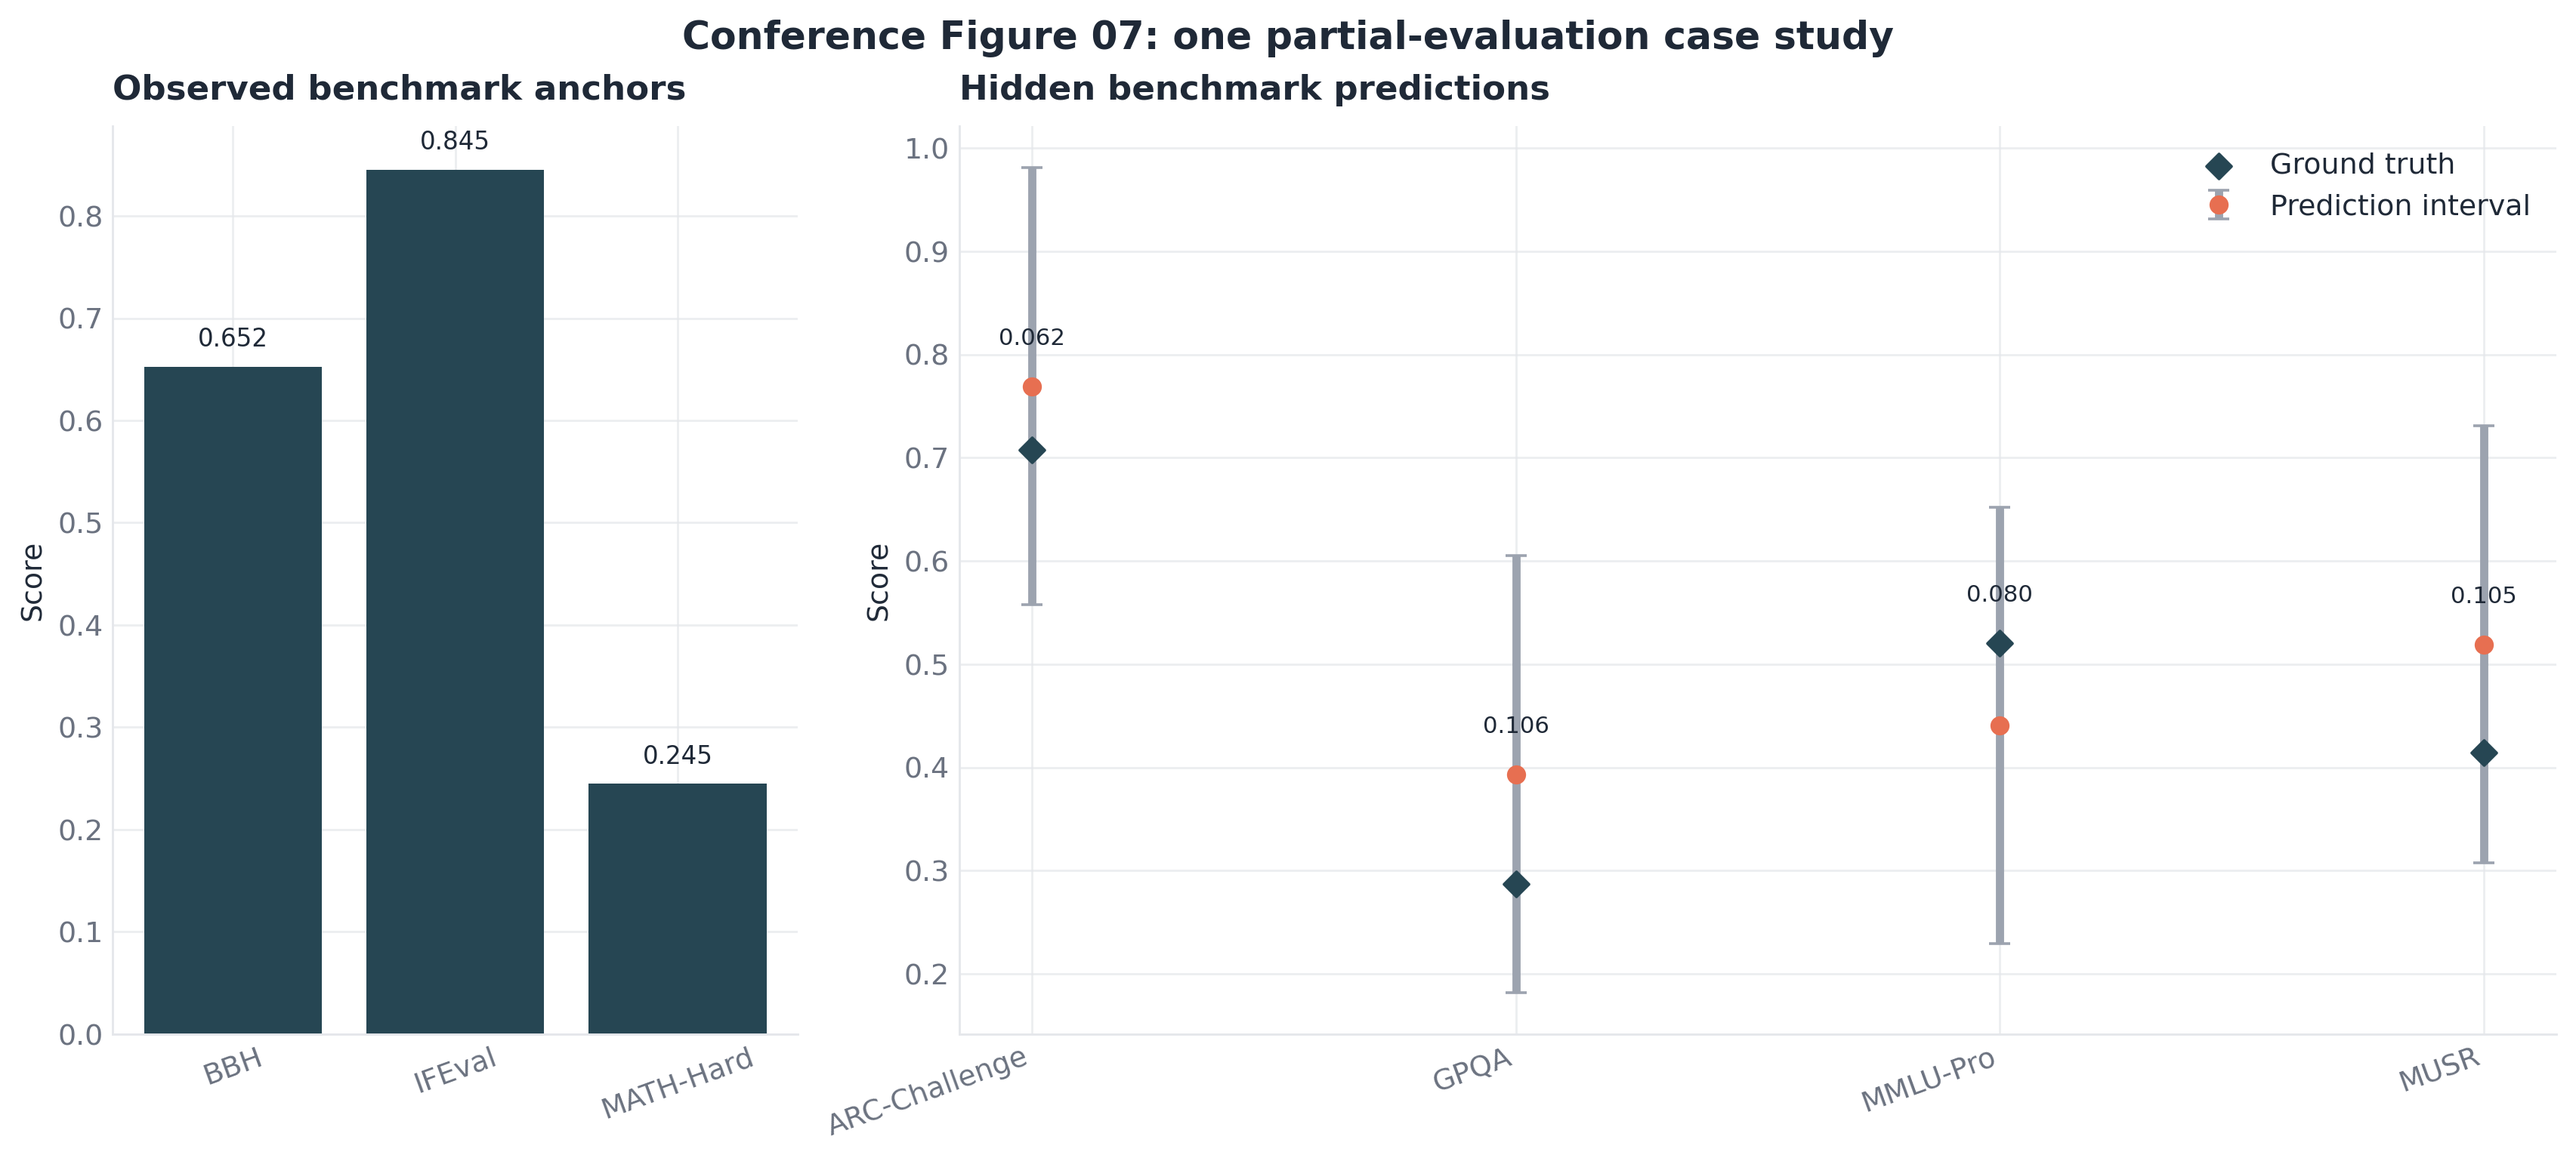
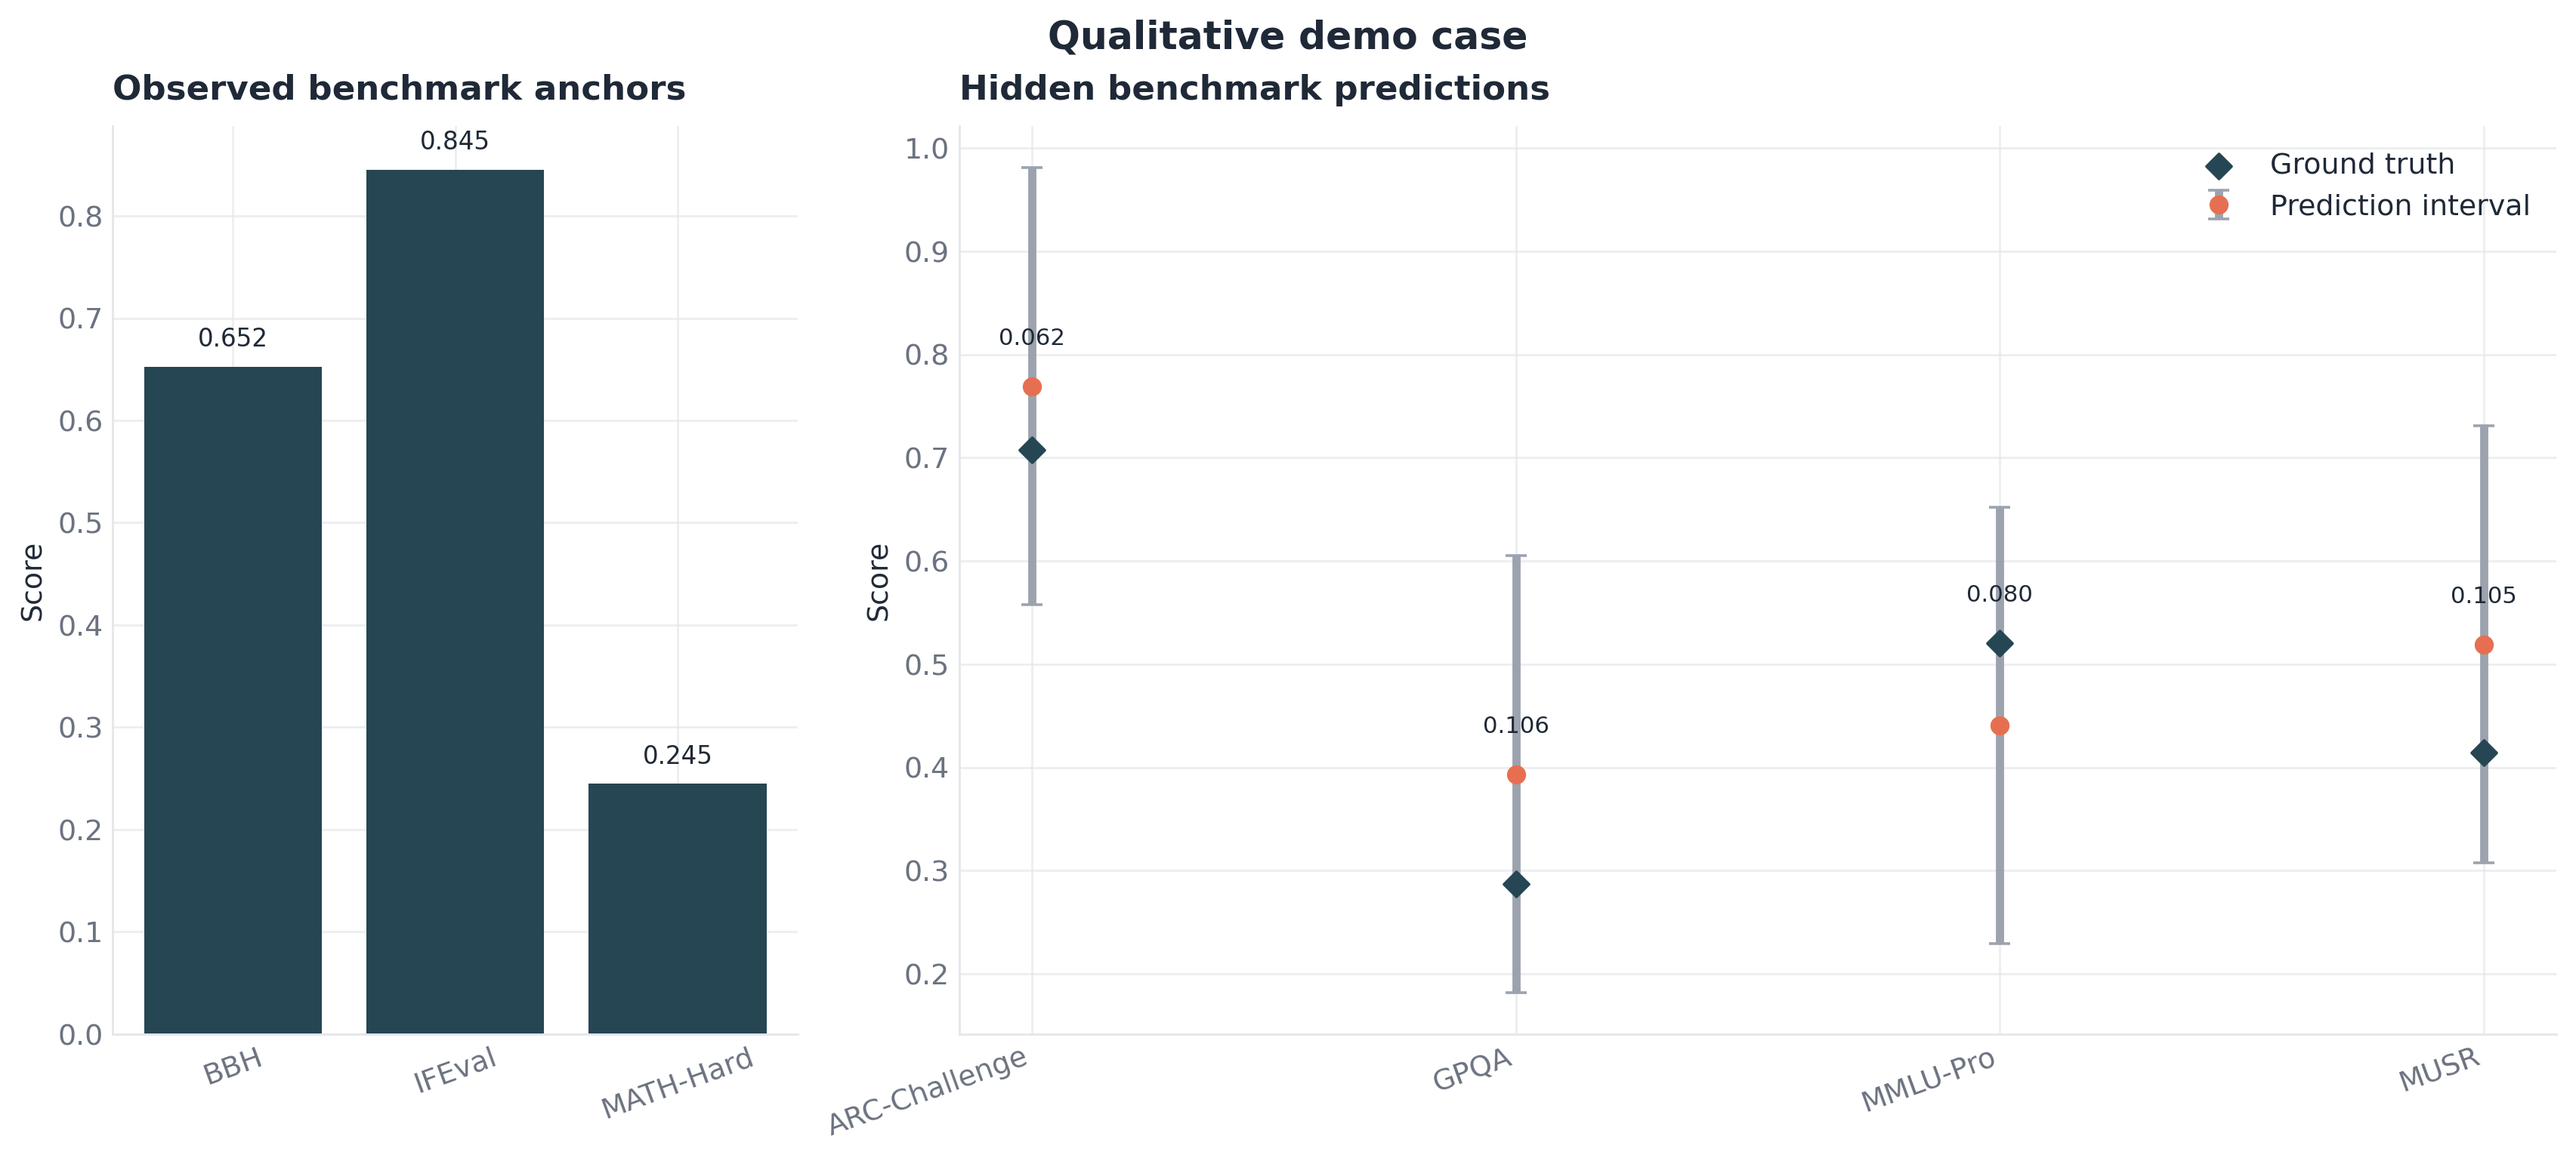
Add novelty-focused conference figures

Changed region(s): [[0.2798, 0.0, 0.746, 0.0624]]

diff --git a/scripts/generate_conference_figures.py b/scripts/generate_conference_figures.py
@@ -42,6 +42,7 @@ COST_SUMMARY = REPO_ROOT / "results" / "cost_savings" / "summary_table.csv"
 DEMO_REPORT = REPO_ROOT / "results" / "demo" / "demo_report.json"
 SCORE_CSV = REPO_ROOT / "datasets" / "lm_eval_real" / "scores.csv"
 DEFAULT_OUT_DIR = REPO_ROOT / "results" / "conference_figures"
+MANIFOLD_PROJECTION = REPO_ROOT / "results" / "manifold_visualization" / "projection.csv"
 
 RISK_SEEDS = [0, 1, 2, 3, 4]
 
@@ -146,6 +147,10 @@ def load_baseline_rows() -> list[dict[str, float | str]]:
     return rows
 
 
+def load_ablation_rows() -> list[dict[str, str]]:
+    return read_csv_rows(ABLATION_TABLE)
+
+
 def load_observed_fraction_rows() -> list[dict[str, float]]:
     rows = []
     for row in read_csv_rows(ABLATION_TABLE):
@@ -206,6 +211,26 @@ def load_cost_rows() -> list[dict[str, float]]:
 
 def load_demo_report() -> dict[str, object]:
     return json.loads(DEMO_REPORT.read_text(encoding="utf-8"))
+
+
+def load_manifold_projection() -> list[dict[str, str | float]]:
+    if not MANIFOLD_PROJECTION.exists():
+        raise SystemExit(
+            f"Missing {MANIFOLD_PROJECTION}. Run `python scripts/run_manifold_visualization.py` first."
+        )
+
+    rows: list[dict[str, str | float]] = []
+    for row in read_csv_rows(MANIFOLD_PROJECTION):
+        rows.append(
+            {
+                "model_name": row["model_name"],
+                "family": row["family"],
+                "point_type": row["point_type"],
+                "pc1": as_float(row["pc1"]),
+                "pc2": as_float(row["pc2"]),
+            }
+        )
+    return rows
 
 
 def load_benchmark_coverage() -> list[tuple[str, int]]:
@@ -382,7 +407,7 @@ def generate_overview_figure(
     for y, count in enumerate(family_sizes):
         ax.text(count + 0.15, y, str(count), va="center", fontsize=9)
 
-    fig.suptitle("Conference Figure 01: why the real-data story is credible", fontsize=14, fontweight="bold")
+    fig.suptitle("Real-data benchmark overview", fontsize=14, fontweight="bold")
     save_figure(fig, path, dpi)
 
 
@@ -416,7 +441,7 @@ def generate_baseline_comparison(path: Path, dpi: int, baseline_rows: list[dict[
             ax.text(value, yy, f" {value:.3f}" if not invert else f"{value:.3f} ", va="center", ha="left" if not invert else "right", fontsize=9)
         ax.set_ylim(-0.6, len(names) - 0.4)
 
-    fig.suptitle("Conference Figure 02: the full method earns its extra machinery", fontsize=14, fontweight="bold")
+    fig.suptitle("Baseline comparison", fontsize=14, fontweight="bold")
     save_figure(fig, path, dpi)
 
 
@@ -440,7 +465,7 @@ def generate_observed_fraction_curve(path: Path, dpi: int, observed_rows: list[d
     axes[-1].set_xlabel("Observed benchmark fraction")
     axes[-1].set_xticks(fractions)
     axes[-1].set_xticklabels([f"{int(value * 100)}%" for value in fractions])
-    fig.suptitle("Conference Figure 03: predictions become useful after surprisingly few anchors", fontsize=14, fontweight="bold")
+    fig.suptitle("Performance versus observed fraction", fontsize=14, fontweight="bold")
     save_figure(fig, path, dpi)
 
 
@@ -488,7 +513,7 @@ def generate_family_split_figure(
     for y, count in enumerate(counts):
         ax.text(count + 0.15, y, str(count), va="center", fontsize=9)
 
-    fig.suptitle("Conference Figure 04: OOD-by-family is harder, but the uncertainty layer still behaves", fontsize=14, fontweight="bold")
+    fig.suptitle("Family-holdout evaluation", fontsize=14, fontweight="bold")
     save_figure(fig, path, dpi)
 
 
@@ -516,7 +541,7 @@ def generate_cost_frontier(path: Path, dpi: int, cost_rows: list[dict[str, float
     ax.set_xticks(thresholds)
     ax.legend(frameon=False)
 
-    fig.suptitle("Conference Figure 05: risk gating buys real benchmark savings", fontsize=14, fontweight="bold")
+    fig.suptitle("Risk-threshold savings frontier", fontsize=14, fontweight="bold")
     save_figure(fig, path, dpi)
 
 
@@ -573,7 +598,7 @@ def generate_risk_stratification(
     for bar, count in zip(bars, counts):
         ax.text(bar.get_x() + bar.get_width() / 2, bar.get_height() + 0.015, f"n={int(count)}", ha="center", fontsize=9)
 
-    fig.suptitle("Conference Figure 06: the risk score actually sorts the hard cases", fontsize=14, fontweight="bold")
+    fig.suptitle("Risk stratification", fontsize=14, fontweight="bold")
     save_figure(fig, path, dpi)
 
 
@@ -611,7 +636,7 @@ def generate_demo_case_study(path: Path, dpi: int, demo_report: dict[str, object
     for xpos, pred, truth in zip(x, preds, truths):
         ax.text(xpos, max(pred, truth) + 0.04, f"{abs(pred - truth):.3f}", ha="center", fontsize=8.5)
 
-    fig.suptitle("Conference Figure 07: one partial-evaluation case study", fontsize=14, fontweight="bold")
+    fig.suptitle("Qualitative demo case", fontsize=14, fontweight="bold")
     save_figure(fig, path, dpi)
 
 
@@ -630,7 +655,189 @@ def generate_alpha_validation(path: Path, dpi: int, alpha_rows: list[dict[str, f
     for x, y, alpha in zip(targets, empirical, alphas):
         ax.text(x + 0.005, y + 0.004, f"a={alpha:.2f}", fontsize=9)
 
-    fig.suptitle("Conference Figure 08: conformal coverage across multiple alpha values", fontsize=14, fontweight="bold")
+    fig.suptitle("Conformal alpha validation", fontsize=14, fontweight="bold")
+    save_figure(fig, path, dpi)
+
+
+def generate_component_ablation(path: Path, dpi: int, ablation_rows: list[dict[str, str]]) -> None:
+    fig, axes = plt.subplots(1, 2, figsize=(13.5, 5.8), constrained_layout=True)
+
+    rank_rows = [
+        {
+            "rank": int(as_float(row["setting"])),
+            "completion_mae": as_float(row["completion_mae"]),
+            "failure_auc": as_float(row["failure_auc"]),
+        }
+        for row in ablation_rows
+        if row["ablation"] == "rank"
+    ]
+    rank_rows.sort(key=lambda row: row["rank"])
+
+    ax = axes[0]
+    ranks = np.asarray([row["rank"] for row in rank_rows], dtype=int)
+    maes = np.asarray([row["completion_mae"] for row in rank_rows], dtype=float)
+    aucs = np.asarray([row["failure_auc"] for row in rank_rows], dtype=float)
+    ax.plot(ranks, maes, color=COLORS["mae"], marker="o", linewidth=2.2, label="Completion MAE")
+    ax.set_xlabel("Latent rank")
+    ax.set_ylabel("Completion MAE", color=COLORS["mae"])
+    ax.tick_params(axis="y", colors=COLORS["mae"], length=0)
+    ax.set_xticks(ranks)
+    style_axis(ax, "Rank sweep")
+
+    ax2 = ax.twinx()
+    ax2.plot(ranks, aucs, color=COLORS["auc"], marker="s", linewidth=2.2, label="Failure AUC")
+    ax2.set_ylabel("Failure AUC", color=COLORS["auc"])
+    ax2.tick_params(axis="y", colors=COLORS["auc"], length=0)
+    ax2.spines["top"].set_visible(False)
+    ax2.grid(False)
+    if len(ranks) > 0:
+        best_rank = ranks[int(np.argmax(aucs))]
+        ax.axvline(best_rank, color=COLORS["gray"], linestyle="--", linewidth=1.1)
+        ax.text(best_rank + 0.05, np.max(maes), f"best AUC at rank {best_rank}", fontsize=9, color=COLORS["muted"])
+
+    feature_rows = [
+        {
+            "subset": row["setting"].replace("_", " "),
+            "failure_auc": as_float(row["failure_auc"]),
+        }
+        for row in ablation_rows
+        if row["ablation"] == "feature_subset"
+    ]
+    order = ["all features", "all minus geometry", "geometry only"]
+    feature_rows.sort(key=lambda row: order.index(row["subset"]))
+
+    ax = axes[1]
+    labels = [row["subset"] for row in feature_rows]
+    values = np.asarray([row["failure_auc"] for row in feature_rows], dtype=float)
+    y = np.arange(len(labels))
+    baseline = values[1] if len(values) > 1 else np.nan
+    ax.hlines(y, baseline, values, color=COLORS["grid"], linewidth=3.0)
+    colors = [COLORS["auc"], COLORS["gold"], COLORS["mae"]]
+    ax.scatter(values, y, s=95, color=colors[: len(y)], zorder=3, edgecolors="white", linewidths=1.2)
+    ax.set_yticks(y)
+    ax.set_yticklabels(labels)
+    style_axis(ax, "Failure detector feature subsets", xlabel="Failure AUC")
+    for yy, value in zip(y, values):
+        ax.text(value + 0.008, yy, f"{value:.3f}", va="center", fontsize=9)
+    if np.isfinite(baseline):
+        ax.axvline(baseline, linestyle="--", linewidth=1.1, color=COLORS["gray"])
+        ax.text(baseline + 0.004, y[-1] + 0.4, "no-geometry reference", fontsize=9, color=COLORS["muted"])
+
+    fig.suptitle("Geometry-aware detector ablations", fontsize=14, fontweight="bold")
+    save_figure(fig, path, dpi)
+
+
+def generate_manifold_figure(
+    path: Path,
+    dpi: int,
+    projection_rows: list[dict[str, str | float]],
+) -> None:
+    fig, axes = plt.subplots(1, 2, figsize=(13.8, 6.0), constrained_layout=True)
+
+    families = sorted({str(row["family"]) for row in projection_rows if str(row["point_type"]) == "training"})
+    cmap = plt.get_cmap("tab20")
+    family_to_color = {family: cmap(idx % 20) for idx, family in enumerate(families)}
+
+    target_row = next(row for row in projection_rows if str(row["point_type"]) == "target")
+    train_rows = [row for row in projection_rows if str(row["point_type"]) == "training"]
+
+    ax = axes[0]
+    for family in families:
+        family_rows = [row for row in train_rows if str(row["family"]) == family]
+        ax.scatter(
+            [float(row["pc1"]) for row in family_rows],
+            [float(row["pc2"]) for row in family_rows],
+            s=40,
+            alpha=0.78,
+            color=family_to_color[family],
+            edgecolors="white",
+            linewidths=0.4,
+            label=family,
+        )
+    ax.scatter(
+        float(target_row["pc1"]),
+        float(target_row["pc2"]),
+        s=260,
+        marker="*",
+        color=COLORS["red"],
+        edgecolors="black",
+        linewidths=1.0,
+        zorder=10,
+        label="target",
+    )
+    style_axis(ax, "Learned model manifold", xlabel="PC1", ylabel="PC2")
+    ax.annotate(
+        str(target_row["model_name"]).split("/")[-1],
+        (float(target_row["pc1"]), float(target_row["pc2"])),
+        xytext=(9, 8),
+        textcoords="offset points",
+        fontsize=9.5,
+        color=COLORS["ink"],
+    )
+
+    nearest = sorted(
+        train_rows,
+        key=lambda row: math.dist(
+            [float(row["pc1"]), float(row["pc2"])],
+            [float(target_row["pc1"]), float(target_row["pc2"])],
+        ),
+    )[:8]
+    nearest_names = {str(row["model_name"]) for row in nearest}
+
+    ax = axes[1]
+    others = [row for row in train_rows if str(row["model_name"]) not in nearest_names]
+    ax.scatter(
+        [float(row["pc1"]) for row in others],
+        [float(row["pc2"]) for row in others],
+        s=24,
+        alpha=0.20,
+        color=COLORS["gray"],
+        edgecolors="none",
+    )
+    for row in nearest:
+        ax.scatter(
+            float(row["pc1"]),
+            float(row["pc2"]),
+            s=75,
+            color=family_to_color[str(row["family"])],
+            edgecolors="white",
+            linewidths=1.0,
+            zorder=4,
+        )
+        ax.annotate(
+            str(row["model_name"]).split("/")[-1],
+            (float(row["pc1"]), float(row["pc2"])),
+            xytext=(6, 4),
+            textcoords="offset points",
+            fontsize=8.5,
+            color=COLORS["ink"],
+        )
+    ax.scatter(
+        float(target_row["pc1"]),
+        float(target_row["pc2"]),
+        s=300,
+        marker="*",
+        color=COLORS["red"],
+        edgecolors="black",
+        linewidths=1.0,
+        zorder=10,
+    )
+    style_axis(ax, "Target neighborhood", xlabel="PC1", ylabel="PC2")
+    x_target = float(target_row["pc1"])
+    y_target = float(target_row["pc2"])
+    ax.set_xlim(x_target - 0.45, x_target + 0.45)
+    ax.set_ylim(y_target - 0.35, y_target + 0.35)
+
+    handles = [
+        mpl.lines.Line2D([0], [0], marker="o", color="none", markerfacecolor=family_to_color[family], markeredgecolor="white", markersize=7, label=family)
+        for family in families[:8]
+    ]
+    handles.append(
+        mpl.lines.Line2D([0], [0], marker="*", color="none", markerfacecolor=COLORS["red"], markeredgecolor="black", markersize=11, label="target")
+    )
+    ax.legend(handles=handles, frameon=False, bbox_to_anchor=(1.02, 1.0), loc="upper left")
+
+    fig.suptitle("Learned manifold and target placement", fontsize=14, fontweight="bold")
     save_figure(fig, path, dpi)
 
 
@@ -642,12 +849,14 @@ def main() -> None:
     benchmark_metrics = load_benchmark_metrics()
     baseline_rows = load_baseline_rows()
     observed_rows = load_observed_fraction_rows()
+    ablation_rows = load_ablation_rows()
     alpha_rows = load_alpha_rows()
     family_metrics = load_family_summary()
     family_counts = load_family_counts()
     benchmark_coverage = load_benchmark_coverage()
     cost_rows = load_cost_rows()
     demo_report = load_demo_report()
+    projection_rows = load_manifold_projection()
     episode_rows, risk_bins = build_risk_stratification_artifacts(data_dir)
 
     figures = [
@@ -659,6 +868,8 @@ def main() -> None:
         ("06_risk_stratification.png", lambda p: generate_risk_stratification(p, args.dpi, episode_rows, risk_bins)),
         ("07_demo_case_study.png", lambda p: generate_demo_case_study(p, args.dpi, demo_report)),
         ("08_alpha_validation.png", lambda p: generate_alpha_validation(p, args.dpi, alpha_rows)),
+        ("09_geometry_ablation.png", lambda p: generate_component_ablation(p, args.dpi, ablation_rows)),
+        ("10_model_manifold.png", lambda p: generate_manifold_figure(p, args.dpi, projection_rows)),
     ]
 
     print(f"Writing chart-driven conference figures to {out_dir}")
